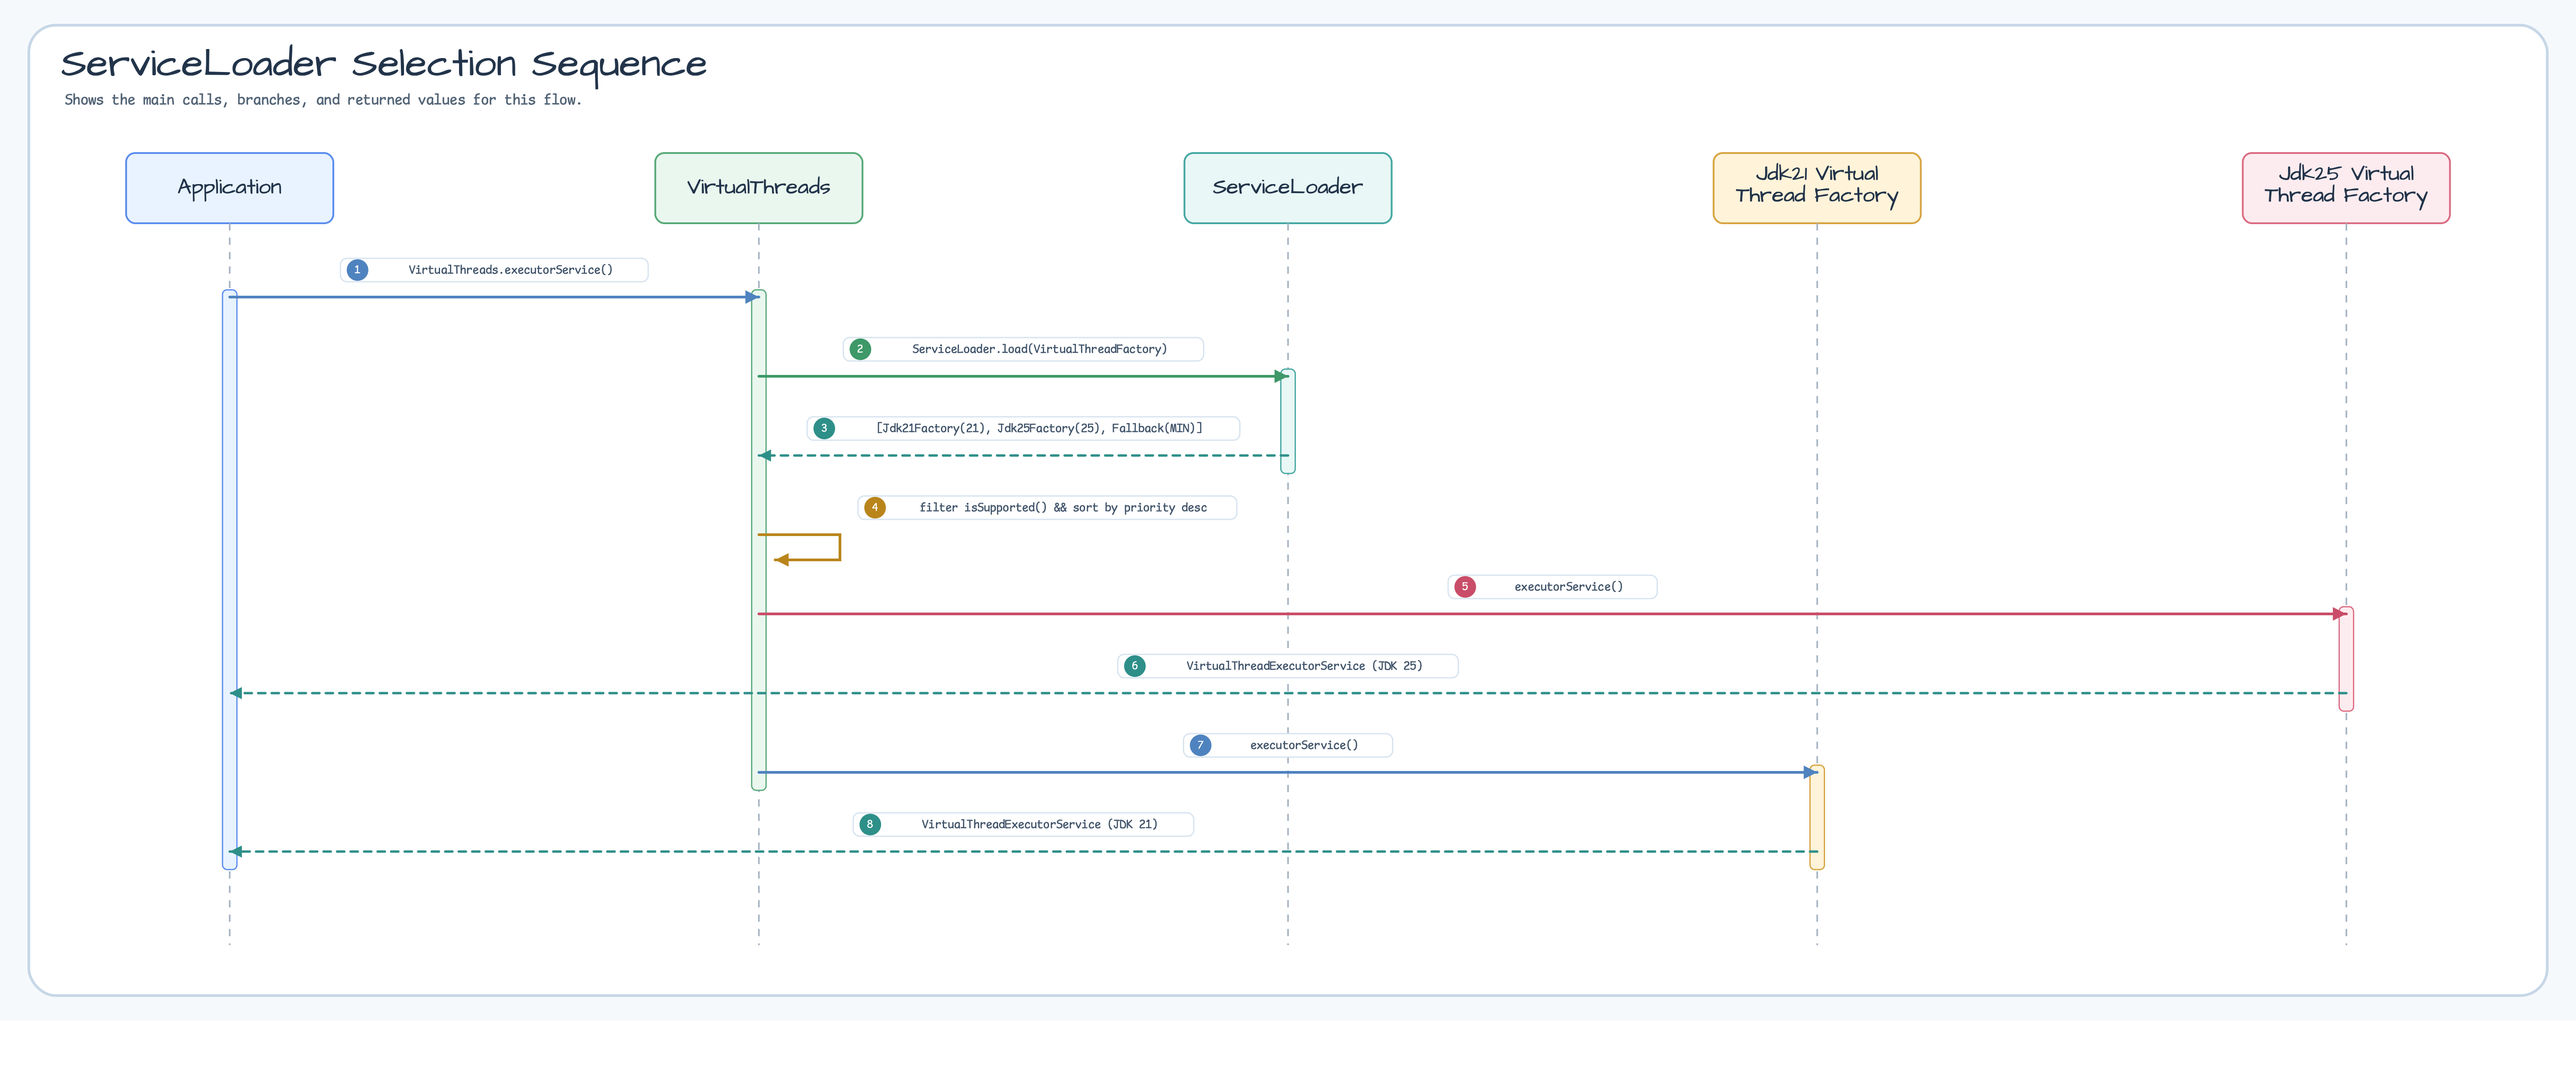
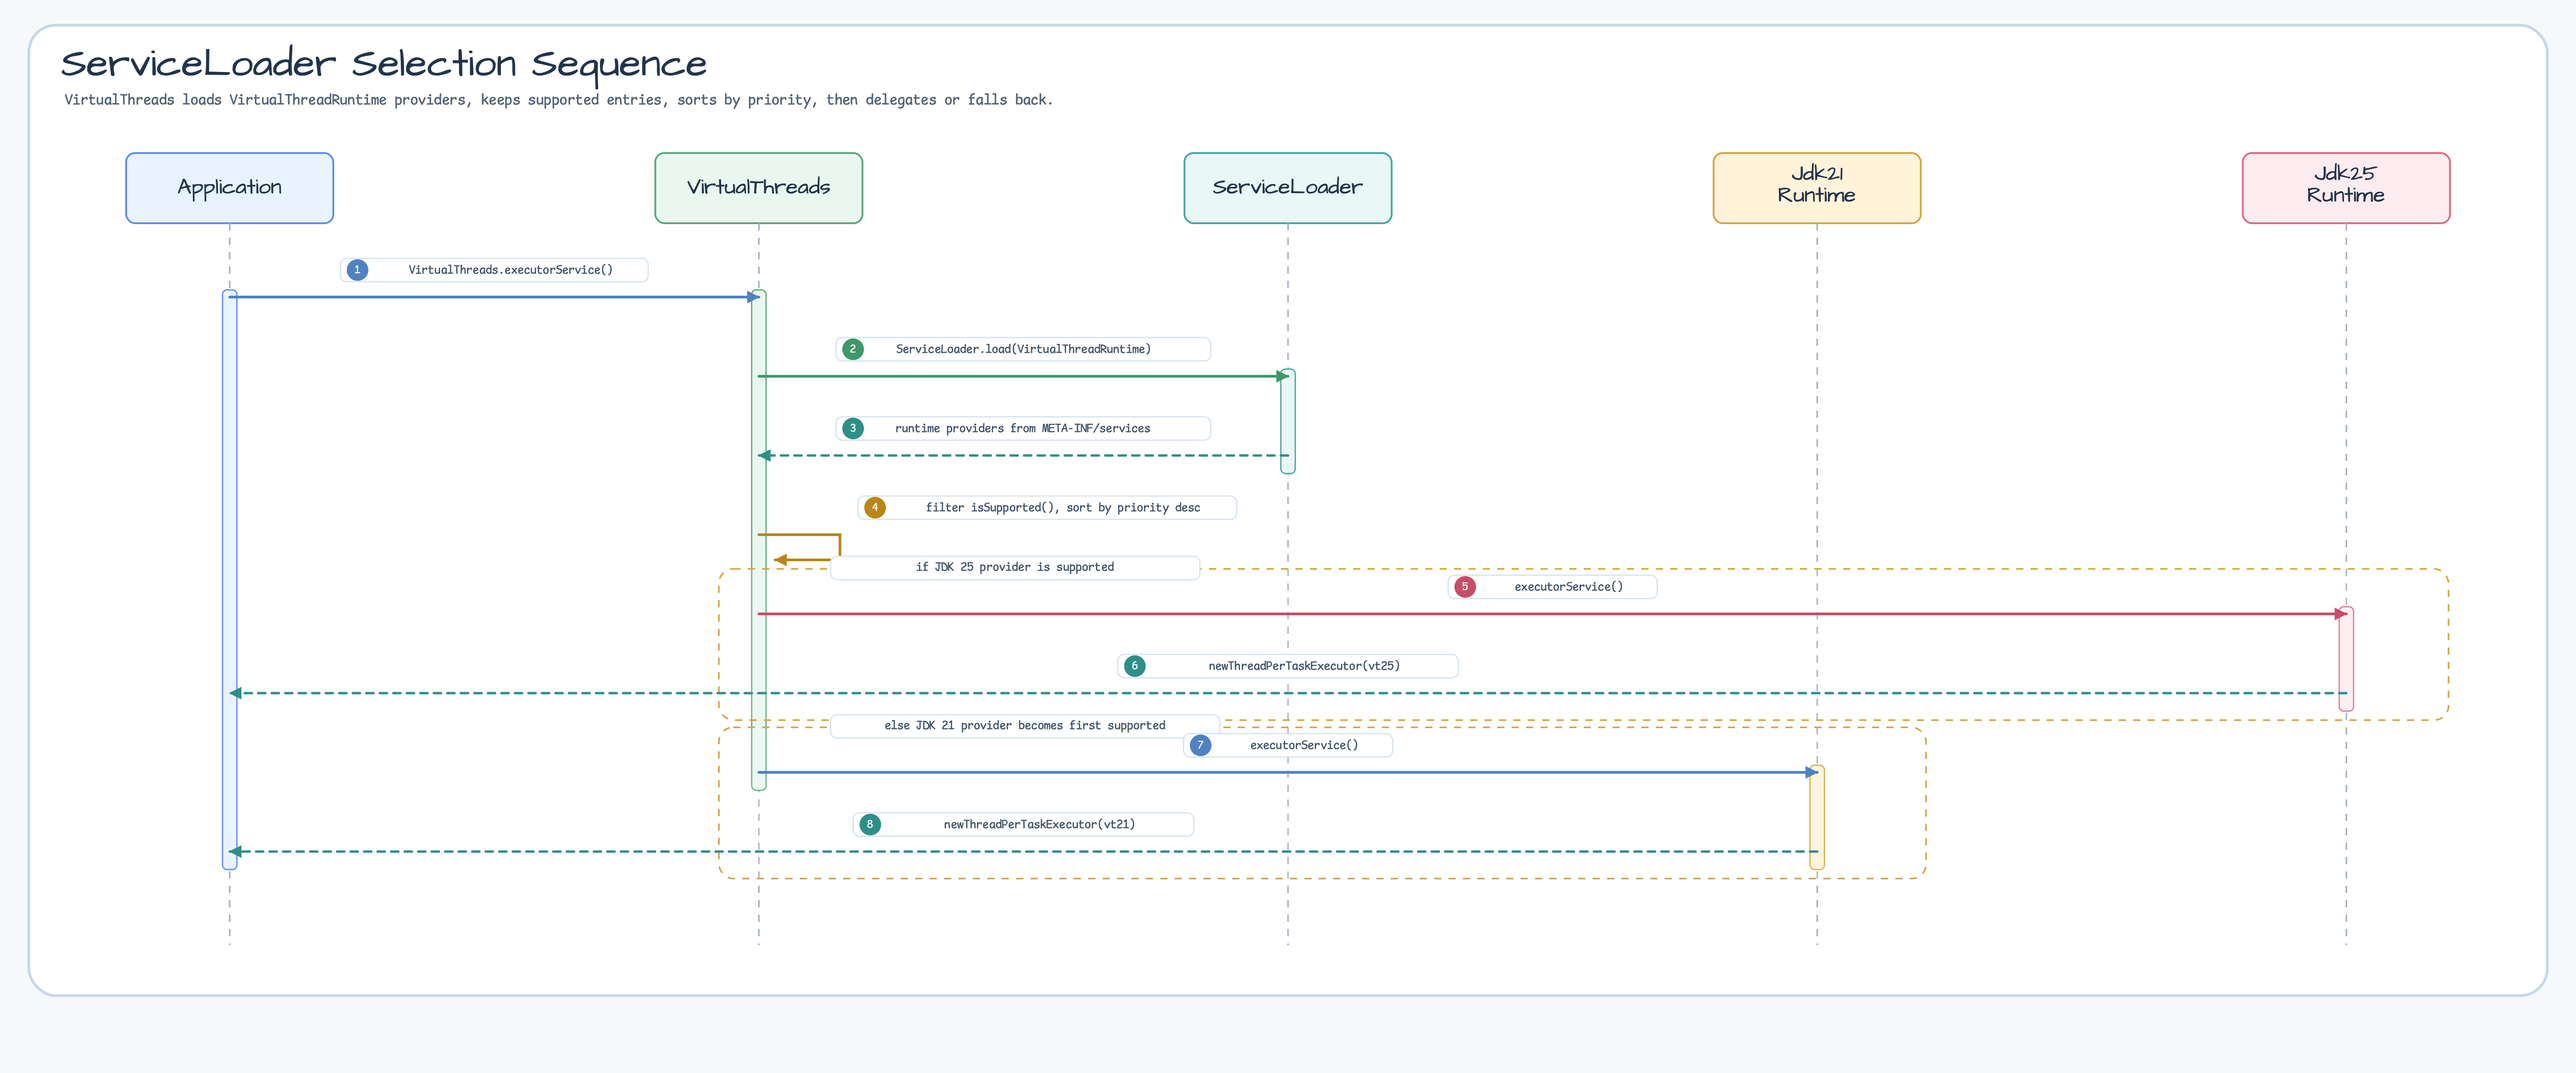
docs: redraw virtualthread overview diagrams
Replace template-derived virtualthread overview visuals with source-backed diagrams for runtime selection, class structure, and ServiceLoader selection behavior.

Constraint: diagrams must reflect the README and current virtualthread API/JDK provider sources, with fixed readable arrows and visual PNG inspection.

Rejected: keeping README contract and Reader feature placeholders | they do not explain runtime selection or class relationships.

Confidence: high

Scope-risk: narrow

Directive: keep root virtualthread visuals focused on ServiceLoader provider selection, JDK runtime/provider contracts, TaskContext, and fallback behavior.

Tested: XML parse for 3 root virtualthread SVGs; forbidden-pattern scan; cairosvg render for all three PNGs; contact-sheet visual inspection; git diff --check.

Not-tested: Gradle build, documentation-only visual update.

diff --git a/virtualthread/README.ko.md b/virtualthread/README.ko.md
@@ -8,19 +8,19 @@ Java 21/25를 같은 프로젝트에서 모듈 분리로 지원하기 위한 구
 
 ### 런타임 선택 흐름
 
-![Virtual Thread Runtime Selection Flow diagram](../docs/images/readme-diagrams/virtualthread-diagram-01.png)
+![ServiceLoader provider, 우선순위 정렬, platform fallback을 사용하는 VirtualThreads 런타임 선택 흐름](../docs/images/readme-diagrams/virtualthread-diagram-01.png)
 
 ---
 
 ### 클래스 다이어그램
 
-![Virtual Thread Class Structure diagram](../docs/images/readme-diagrams/virtualthread-diagram-02.png)
+![런타임 파사드, provider 인터페이스, JDK 구현체, scope 계약, TaskContext를 보여주는 가상 스레드 클래스 구조](../docs/images/readme-diagrams/virtualthread-diagram-02.png)
 
 ---
 
 ### ServiceLoader 선택 시퀀스
 
-![ServiceLoader diagram](../docs/images/readme-diagrams/virtualthread-sequence-01.png)
+![VirtualThreadRuntime 발견, 지원 여부 필터링, 우선순위 정렬, executor 위임을 보여주는 ServiceLoader 선택 시퀀스](../docs/images/readme-diagrams/virtualthread-sequence-01.png)
 
 ---
 

diff --git a/virtualthread/README.md b/virtualthread/README.md
@@ -8,19 +8,19 @@ This structure supports Java 21 and Java 25 in the same project by splitting the
 
 ### Runtime Selection Flow
 
-![Virtual Thread Runtime Selection Flow diagram](../docs/images/readme-diagrams/virtualthread-diagram-01.png)
+![VirtualThreads runtime selection flow using ServiceLoader providers, priority sorting, and platform fallback](../docs/images/readme-diagrams/virtualthread-diagram-01.png)
 
 ---
 
 ### Class Diagram
 
-![Virtual Thread Class Structure diagram](../docs/images/readme-diagrams/virtualthread-diagram-02.png)
+![Virtual thread class structure for runtime facades, provider interfaces, JDK implementations, scope contracts, and TaskContext](../docs/images/readme-diagrams/virtualthread-diagram-02.png)
 
 ---
 
 ### ServiceLoader Selection Sequence
 
-![ServiceLoader Selection Sequence diagram](../docs/images/readme-diagrams/virtualthread-sequence-01.png)
+![ServiceLoader selection sequence for VirtualThreadRuntime discovery, support filtering, priority sorting, and executor delegation](../docs/images/readme-diagrams/virtualthread-sequence-01.png)
 
 ---
 
